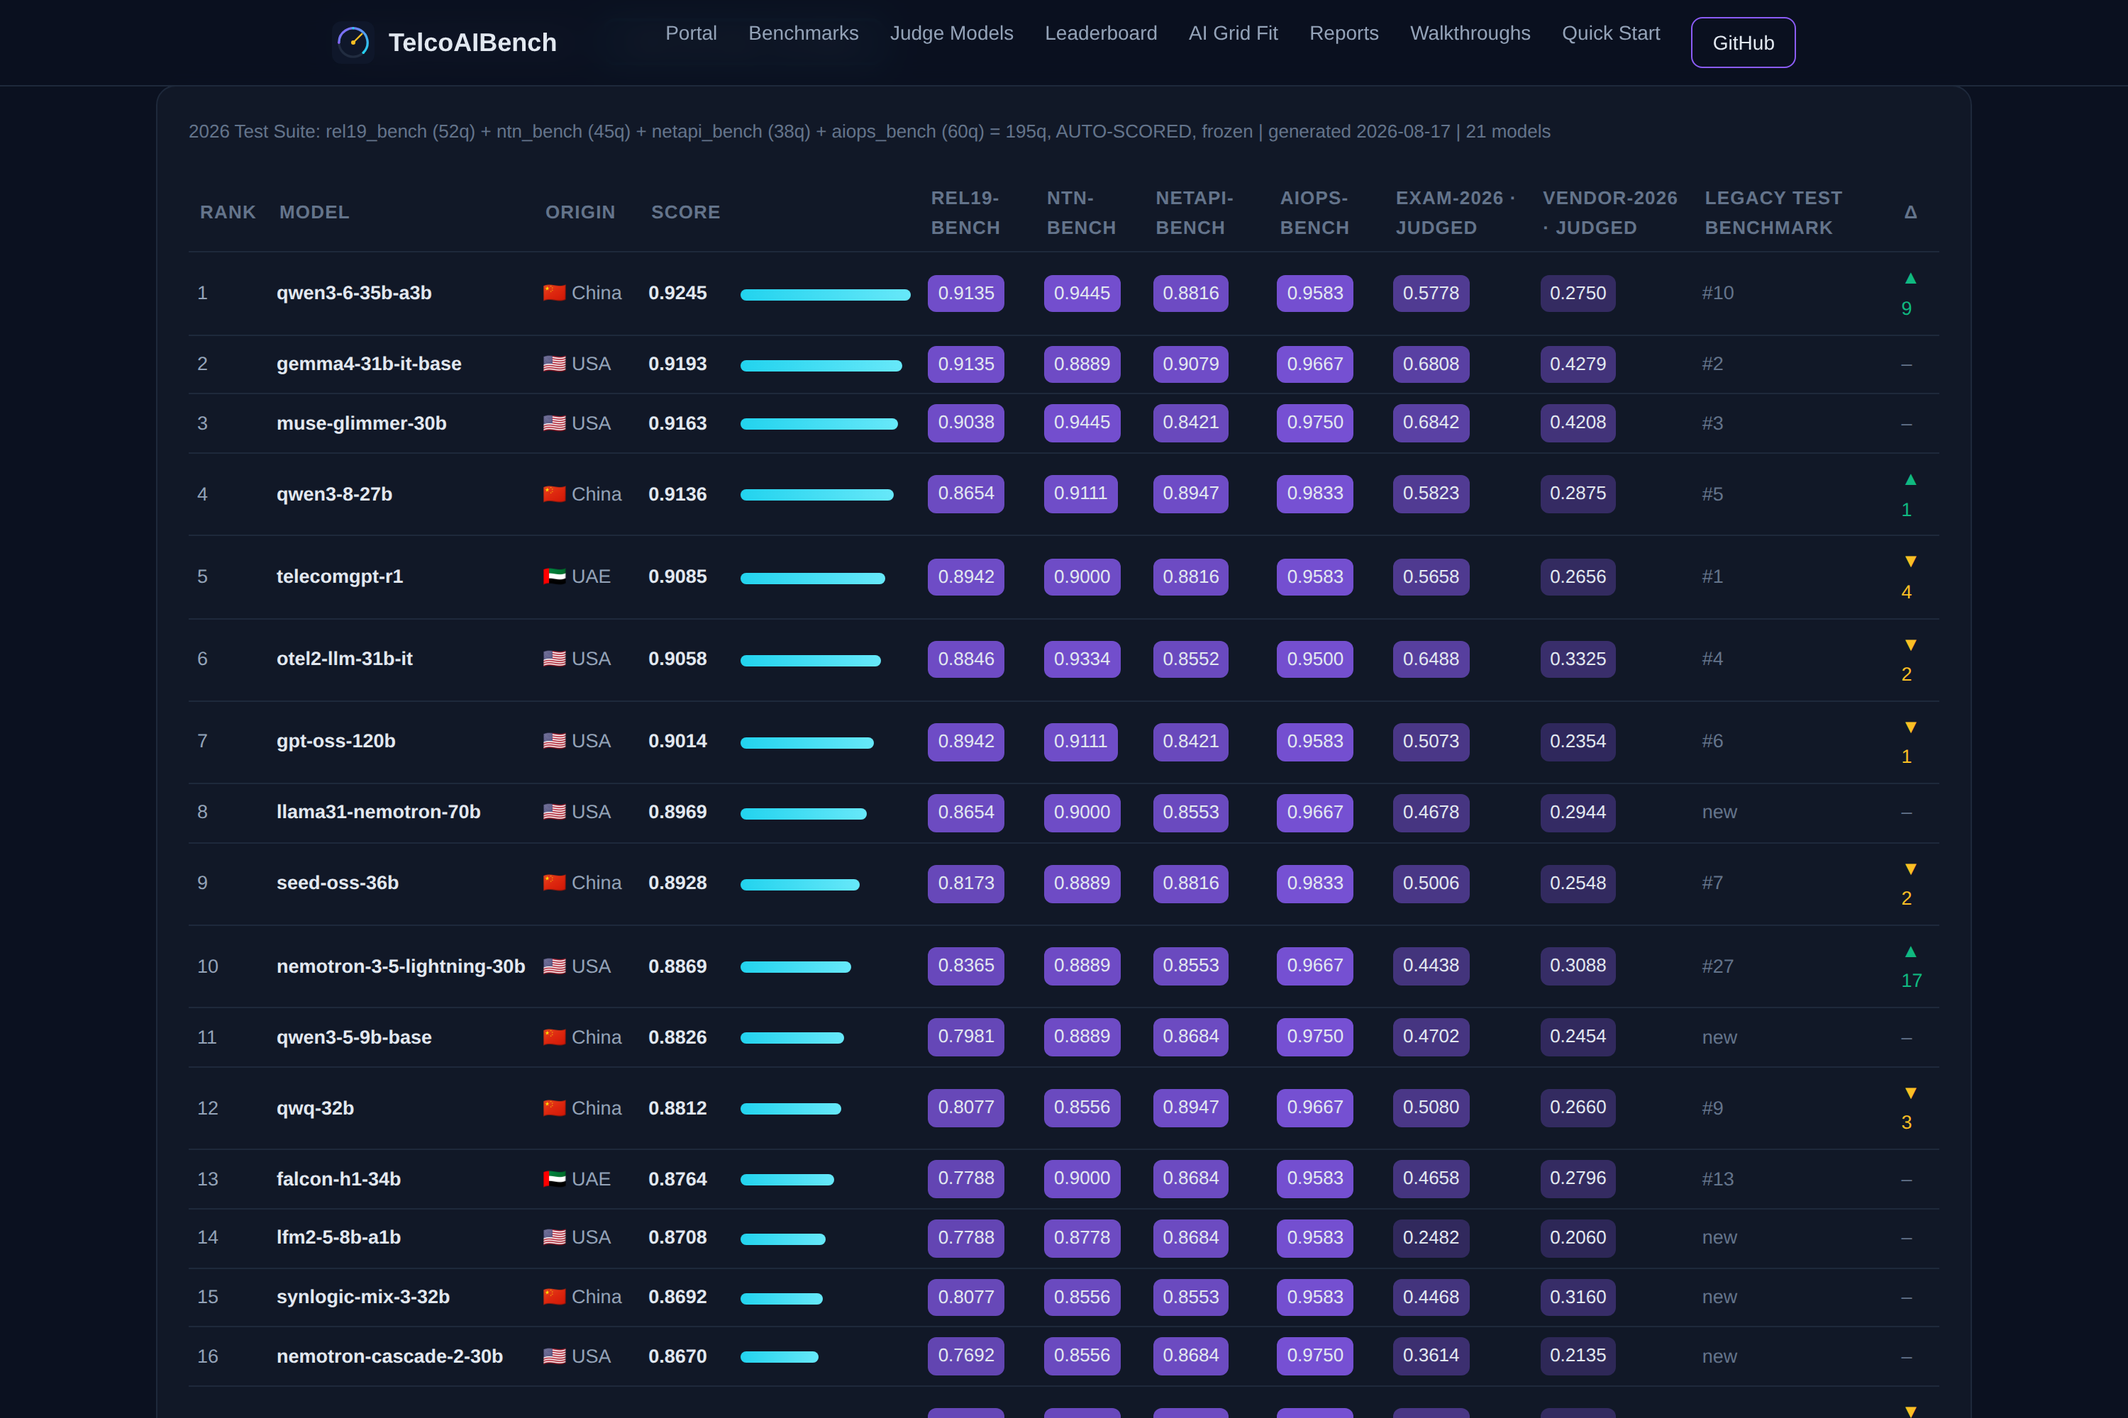
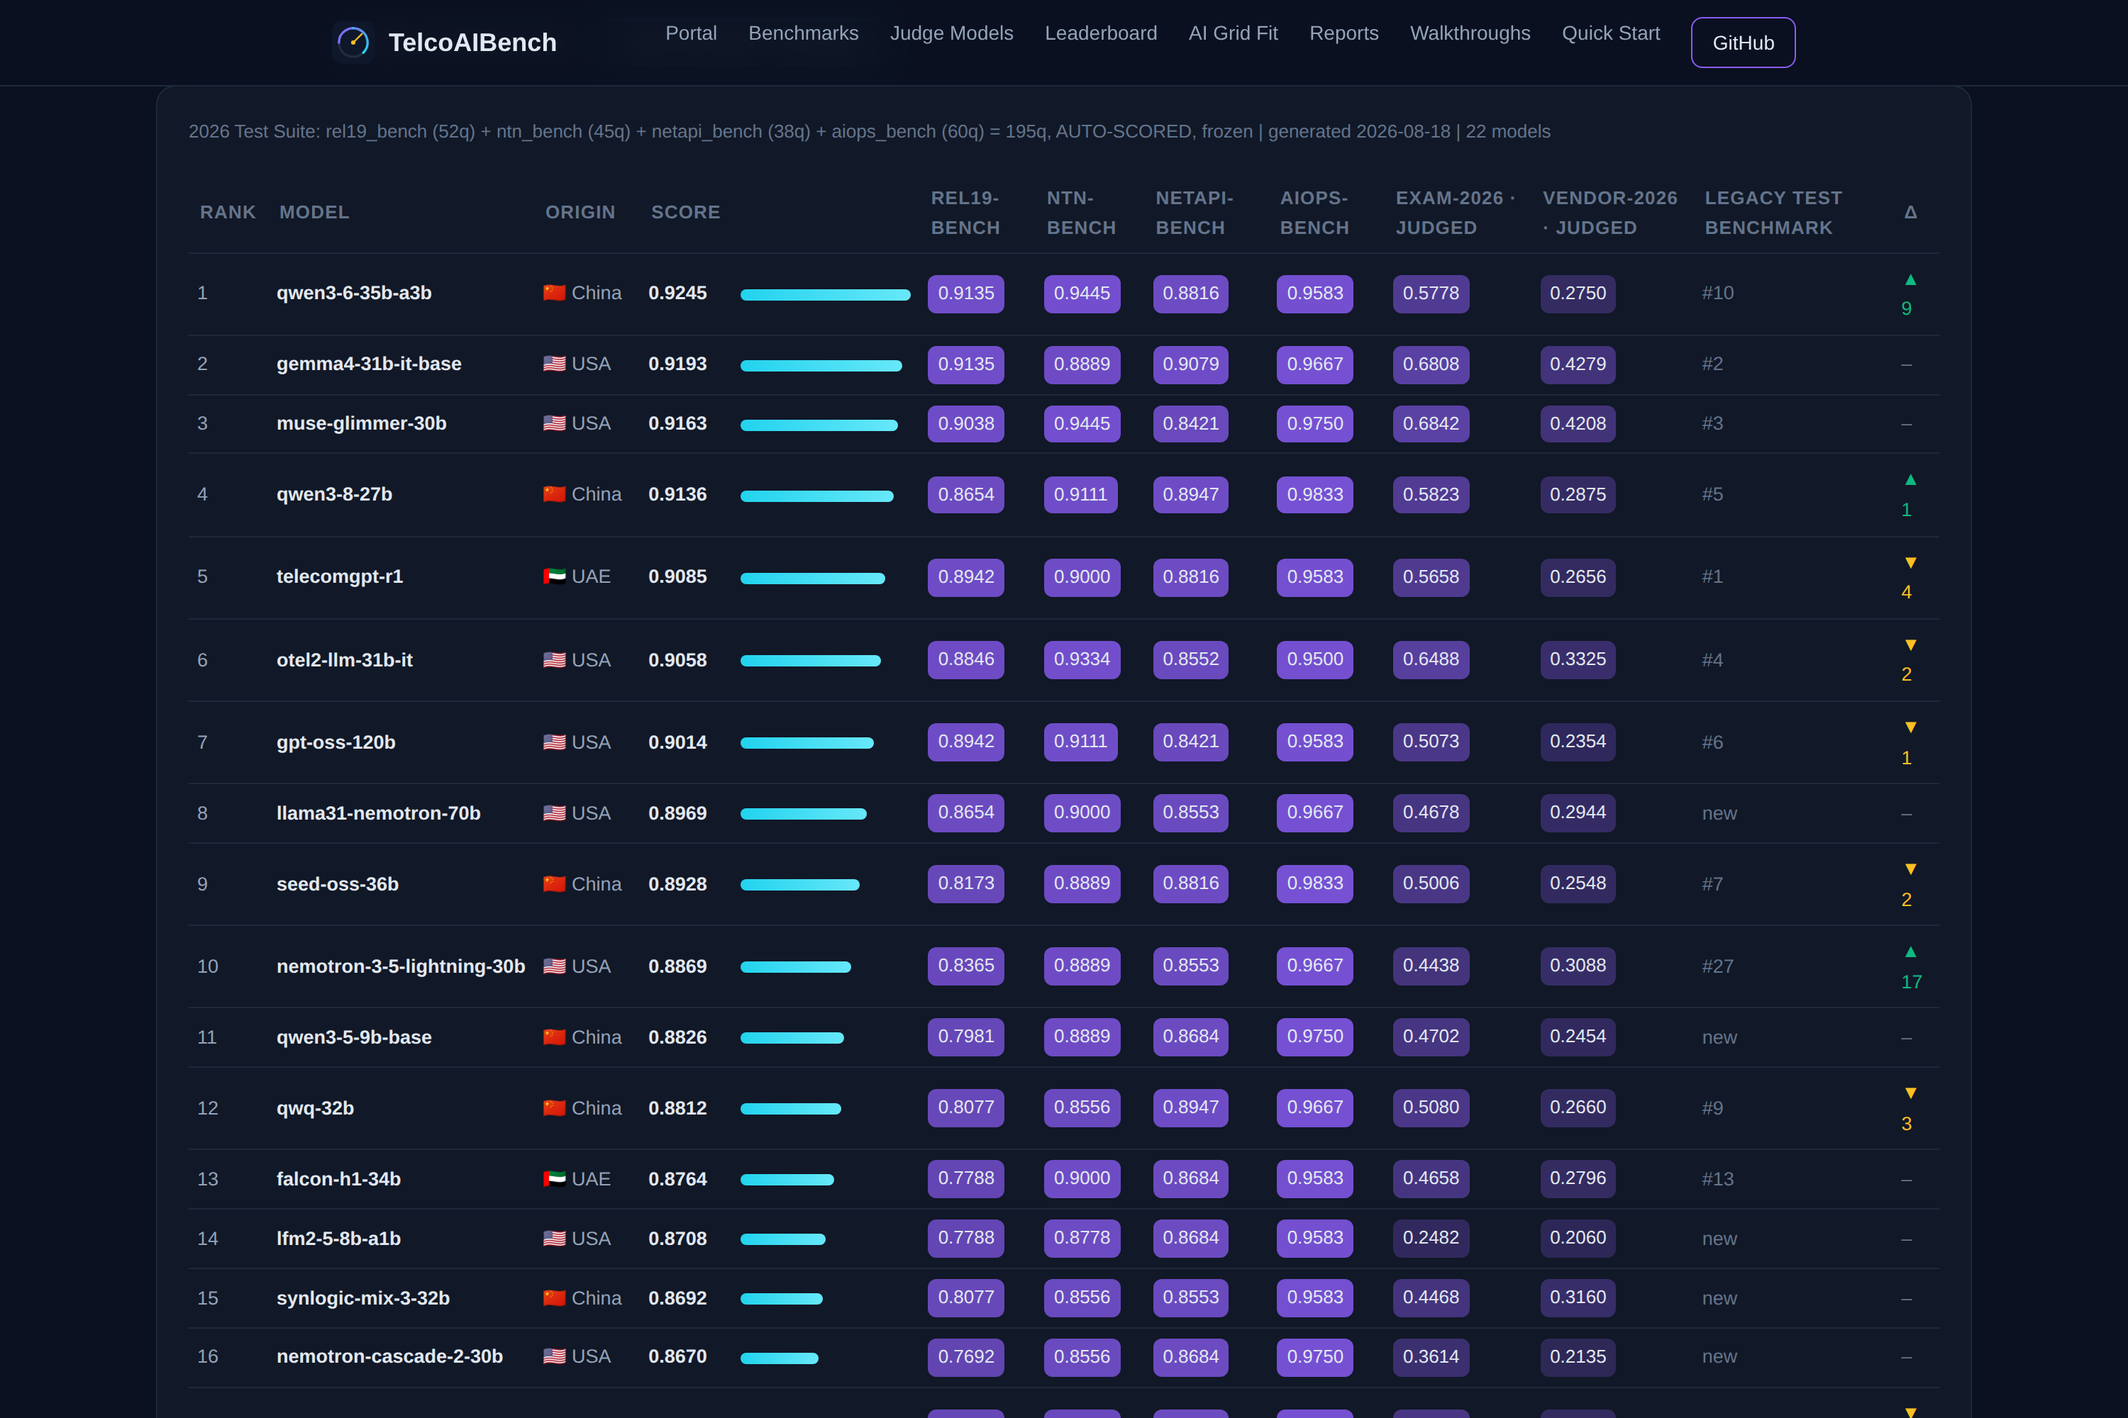
Moonlight-16B-A3B-Instruct: full 2026 track (#20/22); 2026 parse amendment v1.1 (leading-letter fallback, zero-drift audited)

diff --git a/docs/index.html b/docs/index.html
@@ -244,7 +244,10 @@
         RIC control loops, agentic operations, classification/prediction/scaling tasks) &mdash;
         authored from primary 3GPP/ETSI/CAMARA/TM Forum/NGMN sources and SME-reviewed. Each model
         runs each frozen suite twice (two fixed answer orderings); a suite score is the mean of both
-        runs, bounding choice-ordering variance. <b>Score</b> is the equal-weight mean across the four
+        runs, bounding choice-ordering variance. MCQ scoring expects the <code>ANSWER: X</code> protocol
+        line, with a leading-letter fallback (parse v1.1, adopted after a zero-drift audit of all prior
+        board models' transcripts) for models that answer in bare <code>B)</code> style &mdash; see the
+        track design doc. <b>Score</b> is the equal-weight mean across the four
         AUTO-SCORED suites. <b>Exam-2026 · judged</b> is the 2026 expansion of Telco's Last Exam
         (30 expert open-ended questions, 260 pts &mdash; IMS/voice, OSS/BSS, regulatory, AI-ops, NTN,
         energy + expert deepeners), graded 0-10 by the board judge (gpt-5.6-sol) against worked reference answers and reported points-weighted. <b>Vendor-2026 &middot; judged</b> completes the judged track: the 2026 expansion of the Vendor GenAI matrix (24 new cells &mdash; Huawei &times;6, ZTE &times;6, legacy vendors &times; Transport/IP + Security; five honesty traps), graded on the anchored 4-criteria rubric (technical accuracy / completeness / depth / honesty, weighted 0.40/0.20/0.15/0.25). Both judged columns are informational and do not enter Score, which stays the auto-scored 4-suite mean.

diff --git a/benchmarks/open-telco/otel_eval.py b/benchmarks/open-telco/otel_eval.py
@@ -196,6 +196,28 @@ def score_mcq(completion: str, record: dict):
     return parsed == target, parsed, target
 
 
+# 2026-track parse amendment v1.1 (2026 suites ONLY - the legacy GSMA-parity
+# suites above keep the verbatim-port scorer). Some instruct models answer
+# MCQs in the natural "B) <restated choice>" style and systematically ignore
+# the 'ANSWER: X' protocol line (first observed: Moonlight-16B-A3B-Instruct,
+# 15/15 correct letters, 0/15 protocol-compliant). When and only when no
+# 'ANSWER: X' line is present, fall back to a single leading choice letter at
+# the start of the reply. Adopted 2026-08-18 after a zero-drift audit
+# re-parsing all 21 board models' stored 2026 transcripts (see
+# benchmarks/2026-track-design.md).
+LEADING_LETTER = re.compile(r"^\s*[*_#]{0,3}\(?([A-Za-z])\)?\s*(?:[).:,-]|$)")
+
+
+def score_mcq_2026(completion: str, record: dict):
+    """score_mcq + leading-letter fallback (parse v1.1, 2026 suites only)."""
+    ok, parsed, target = score_mcq(completion, record)
+    if not parsed:
+        m = LEADING_LETTER.match(completion or "")
+        if m:
+            parsed = m.group(1).upper()
+    return parsed == target, parsed, target
+
+
 def score_telemath(completion: str, record: dict):
     """Boxed numeric answer, correct if within 1% rel or 0.01 abs."""
     target = str(record["answer"])
@@ -269,16 +291,16 @@ TASKS = {
     # --- 2026 Test Suite (AUTO-SCORED, frozen; see benchmarks/open-telco-2026/) ---
     # each task concatenates both frozen answer shuffles (_A + _B): one run
     # reproduces the board's two-shuffle-mean protocol exactly
-    "rel19_bench":  {"prompt": build_mcq_prompt, "score": score_mcq,
+    "rel19_bench":  {"prompt": build_mcq_prompt, "score": score_mcq_2026,
                      "paths": ["open-telco-2026/datasets/lite/rel19_bench_A.jsonl.gz",
                                "open-telco-2026/datasets/lite/rel19_bench_B.jsonl.gz"]},
     "ntn_bench":    {"prompt": build_mcq_prompt, "score": score_mcq,
                      "paths": ["open-telco-2026/datasets/lite/ntn_bench_A.jsonl.gz",
                                "open-telco-2026/datasets/lite/ntn_bench_B.jsonl.gz"]},
-    "netapi_bench": {"prompt": build_mcq_prompt, "score": score_mcq,
+    "netapi_bench": {"prompt": build_mcq_prompt, "score": score_mcq_2026,
                      "paths": ["open-telco-2026/datasets/lite/netapi_bench_A.jsonl.gz",
                                "open-telco-2026/datasets/lite/netapi_bench_B.jsonl.gz"]},
-    "aiops_bench":  {"prompt": build_mcq_prompt, "score": score_mcq,
+    "aiops_bench":  {"prompt": build_mcq_prompt, "score": score_mcq_2026,
                      "paths": ["open-telco-2026/datasets/lite/aiops_bench_A.jsonl.gz",
                                "open-telco-2026/datasets/lite/aiops_bench_B.jsonl.gz"]},
     # 2026 expansion batch 1 (30 expert q, 260 pts); full 2026 exam = this + legacy, points-weighted

diff --git a/benchmarks/model-reports/2026-reports/moonlight-16b-a3b-it.md b/benchmarks/model-reports/2026-reports/moonlight-16b-a3b-it.md
@@ -1,24 +1,24 @@
-# glm-4-7-flash — 2026 Test Suite Report Card
+# moonlight-16b-a3b-it — 2026 Test Suite Report Card
 
 **Track:** 2026 Test Suite · 6G Within (AUTO-SCORED) · **Origin:** China · **Legacy Test Benchmark rank:** new
 
-Composite (equal-weight mean of 4 AUTO-SCORED suites, 195 questions, each scored on two frozen answer shuffles): **0.8619** · Exam-2026 judged score (informational): **0.3846**
+Composite (equal-weight mean of 4 AUTO-SCORED suites, 195 questions, each scored on two frozen answer shuffles): **0.8438** · Exam-2026 judged score (informational): **0.2907**
 
 | Suite | Questions | Shuffle A | Shuffle B | Mean |
 |---|---|---|---|---|
-| Rel-19-Bench | 52 | 0.8269 | 0.8269 | **0.8269** |
-| NTN-Bench | 45 | 0.8000 | 0.8667 | **0.8333** |
-| NetAPI-Bench | 38 | 0.7895 | 0.8684 | **0.8289** |
-| AIOps-Bench | 60 | 0.9667 | 0.9500 | **0.9583** |
-| **Composite (AUTO-SCORED)** | **195** | | | **0.8619** |
-| Exam-2026 (judged, 30q/260pts) | 30 | | | 0.3846 |
-| Vendor-2026 (judged, 24 cells) | 24 | | | 0.2194 |
+| Rel-19-Bench | 52 | 0.7885 | 0.7115 | **0.7500** |
+| NTN-Bench | 45 | 0.8222 | 0.7778 | **0.8000** |
+| NetAPI-Bench | 38 | 0.8158 | 0.8684 | **0.8421** |
+| AIOps-Bench | 60 | 1.0000 | 0.9667 | **0.9833** |
+| **Composite (AUTO-SCORED)** | **195** | | | **0.8438** |
+| Exam-2026 (judged, 30q/260pts) | 30 | | | 0.2907 |
+| Vendor-2026 (judged, 24 cells) | 24 | | | 0.2288 |
 
 ## Methodology
 
 Each suite is frozen as two fixed answer-order shuffles (seeds and SHA-256 in the suite [MANIFEST](../../open-telco-2026/datasets/lite/MANIFEST.json)); every model sees identical orderings and the reported score is the mean of the two runs, neutralizing answer-position sensitivity (measured up to ~7 points on a single ordering). Scoring: exact-match `ANSWER: X` extraction, temperature 0.0, max 8192 output tokens, streaming, 6 concurrent connections. Serving: KServe RawDeployment on OpenShift (cluster `venice`, 2× RTX PRO 6000 96GB), the pinned vLLM v0.26.0 CUDA 12.9 image, weights from cluster PVCs.
 
-**Serving note:** Run with `chat_template_kwargs.enable_thinking=false` (golden config: default thinking overruns the 8192-token cap on ~1/3 of items). Loads on the pinned vLLM v0.26.0 despite the model card recommending nightly builds.
+**Serving note:** 16B-total / 3B-active MoE (DeepSeek-V3 architecture, Muon-trained) served with `--trust-remote-code` and `--max-model-len=8192` (the model's context limit); golden config `max_tokens=4096` so generation fits the 8K context. Scored under 2026 parse amendment v1.1 (leading-letter fallback): the model consistently answers with the correct choice letter in `B) ...` style but omits the `ANSWER: X` protocol line on 390/390 items - the fallback (adopted after a zero-drift audit of all prior board models) recovers every answer.
 
 ## Suite provenance
 

diff --git a/benchmarks/model-reports/2026-reports/README.md b/benchmarks/model-reports/2026-reports/README.md
@@ -11,19 +11,20 @@ One report card per model benchmarked on the **2026 Test Suite · 6G Within** tr
 | 5 | telecomgpt-r1 | **0.9085** | UAE | #1 | [report](telecomgpt-r1.md) |
 | 6 | otel2-llm-31b-it | **0.9058** | USA | #4 | [report](otel2-llm-31b-it.md) |
 | 7 | gpt-oss-120b | **0.9014** | USA | #6 | [report](gpt-oss-120b.md) |
-| 8 | llama31-nemotron-70b | **0.8969** | USA | #None | [report](llama31-nemotron-70b.md) |
+| 8 | llama31-nemotron-70b | **0.8969** | USA | new | [report](llama31-nemotron-70b.md) |
 | 9 | seed-oss-36b | **0.8928** | China | #7 | [report](seed-oss-36b.md) |
 | 10 | nemotron-3-5-lightning-30b | **0.8869** | USA | #27 | [report](nemotron-3-5-lightning-30b.md) |
-| 11 | qwen3-5-9b-base | **0.8826** | China | #None | [report](qwen3-5-9b-base.md) |
+| 11 | qwen3-5-9b-base | **0.8826** | China | new | [report](qwen3-5-9b-base.md) |
 | 12 | qwq-32b | **0.8812** | China | #9 | [report](qwq-32b.md) |
 | 13 | falcon-h1-34b | **0.8764** | UAE | #13 | [report](falcon-h1-34b.md) |
-| 14 | lfm2-5-8b-a1b | **0.8708** | USA | #None | [report](lfm2-5-8b-a1b.md) |
-| 15 | synlogic-mix-3-32b | **0.8692** | China | #None | [report](synlogic-mix-3-32b.md) |
-| 16 | nemotron-cascade-2-30b | **0.8670** | USA | #None | [report](nemotron-cascade-2-30b.md) |
+| 14 | lfm2-5-8b-a1b | **0.8708** | USA | new | [report](lfm2-5-8b-a1b.md) |
+| 15 | synlogic-mix-3-32b | **0.8692** | China | new | [report](synlogic-mix-3-32b.md) |
+| 16 | nemotron-cascade-2-30b | **0.8670** | USA | new | [report](nemotron-cascade-2-30b.md) |
 | 17 | mistral-small-3-2-24b | **0.8666** | France | #11 | [report](mistral-small-3-2-24b.md) |
 | 18 | nemotron-3-super-120b | **0.8643** | USA | #8 | [report](nemotron-3-super-120b.md) |
-| 19 | glm-4-7-flash | **0.8619** | China | #None | [report](glm-4-7-flash.md) |
-| 20 | lfm2-5-vl-3b | **0.8407** | USA | #None | [report](lfm2-5-vl-3b.md) |
-| 21 | lfm2-5-2-6b-base | **0.8336** | USA | #None | [report](lfm2-5-2-6b-base.md) |
+| 19 | glm-4-7-flash | **0.8619** | China | new | [report](glm-4-7-flash.md) |
+| 20 | moonlight-16b-a3b-it | **0.8438** | China | new | [report](moonlight-16b-a3b-it.md) |
+| 21 | lfm2-5-vl-3b | **0.8407** | USA | new | [report](lfm2-5-vl-3b.md) |
+| 22 | lfm2-5-2-6b-base | **0.8336** | USA | new | [report](lfm2-5-2-6b-base.md) |
 
 Legacy-board proof points live under [`../legacy-reports/`](../legacy-reports/).

diff --git a/benchmarks/2026-track-design.md b/benchmarks/2026-track-design.md
@@ -1,7 +1,7 @@
 # TelcoAIBench 2026 Track — Design
 
 **Status:** approved 2026-08-16 · auto-scored track delivered (195q frozen, Marathon #02
-complete) · exam-2026 delivered (21-model judged marathon) · vendor-genai-2026 frozen, marathon in progress.
+complete) · exam-2026 + vendor-genai-2026 delivered (full judged marathons) · 22 models on the 2026 board.
 
 ## Why
 
@@ -61,6 +61,22 @@ official reports.
    a time (one per GPU), JSON-verified serving swaps.
 6. **Publish** — board column + per-model [report cards](model-reports/2026-reports/),
    frozen datasets + provenance in the suite folder, one git patch per delivery.
+
+## Parse amendment v1.1 (2026 suites only, 2026-08-18)
+
+Some instruct models answer MCQs in the natural `B) <restated choice>` style and
+systematically ignore the `ANSWER: X` protocol line even when instructed verbatim
+(first observed: Moonlight-16B-A3B-Instruct — 15/15 correct letters on the rel19
+pilot, 0/15 protocol-compliant). The 2026 AUTO-SCORED suites therefore use
+`score_mcq_2026`: identical to the verbatim-port scorer, plus a fallback that
+accepts a single leading choice letter at the start of the reply **only when no
+`ANSWER: X` line is present anywhere**. The legacy GSMA-parity suites keep the
+verbatim-port scorer untouched.
+
+Adoption gate: a re-parse audit of all 21 board models' stored 2026 transcripts
+(8,190 rows = 195 questions x 2 shuffles x 21 models) confirmed the fallback
+fires 0 times on existing runs — published scores are byte-identical under v1.0
+and v1.1.
 
 ## Board
 

diff --git a/benchmarks/model-reports/2026-reports/nemotron-cascade-2-30b.md b/benchmarks/model-reports/2026-reports/nemotron-cascade-2-30b.md
@@ -1,6 +1,6 @@
 # nemotron-cascade-2-30b — 2026 Test Suite Report Card
 
-**Track:** 2026 Test Suite · 6G Within (AUTO-SCORED) · **Origin:** USA · **Legacy Test Benchmark rank:** #None
+**Track:** 2026 Test Suite · 6G Within (AUTO-SCORED) · **Origin:** USA · **Legacy Test Benchmark rank:** new
 
 Composite (equal-weight mean of 4 AUTO-SCORED suites, 195 questions, each scored on two frozen answer shuffles): **0.8670** · Exam-2026 judged score (informational): **0.3614**
 

diff --git a/benchmarks/model-reports/2026-reports/synlogic-mix-3-32b.md b/benchmarks/model-reports/2026-reports/synlogic-mix-3-32b.md
@@ -1,6 +1,6 @@
 # synlogic-mix-3-32b — 2026 Test Suite Report Card
 
-**Track:** 2026 Test Suite · 6G Within (AUTO-SCORED) · **Origin:** China · **Legacy Test Benchmark rank:** #None
+**Track:** 2026 Test Suite · 6G Within (AUTO-SCORED) · **Origin:** China · **Legacy Test Benchmark rank:** new
 
 Composite (equal-weight mean of 4 AUTO-SCORED suites, 195 questions, each scored on two frozen answer shuffles): **0.8692** · Exam-2026 judged score (informational): **0.4468**
 

diff --git a/benchmarks/model-reports/2026-reports/llama31-nemotron-70b.md b/benchmarks/model-reports/2026-reports/llama31-nemotron-70b.md
@@ -1,6 +1,6 @@
 # llama31-nemotron-70b — 2026 Test Suite Report Card
 
-**Track:** 2026 Test Suite · 6G Within (AUTO-SCORED) · **Origin:** USA · **Legacy Test Benchmark rank:** #None
+**Track:** 2026 Test Suite · 6G Within (AUTO-SCORED) · **Origin:** USA · **Legacy Test Benchmark rank:** new
 
 Composite (equal-weight mean of 4 AUTO-SCORED suites, 195 questions, each scored on two frozen answer shuffles): **0.8969** · Exam-2026 judged score (informational): **0.4678**
 

diff --git a/benchmarks/model-reports/2026-reports/qwen3-5-9b-base.md b/benchmarks/model-reports/2026-reports/qwen3-5-9b-base.md
@@ -1,6 +1,6 @@
 # qwen3-5-9b-base — 2026 Test Suite Report Card
 
-**Track:** 2026 Test Suite · 6G Within (AUTO-SCORED) · **Origin:** China · **Legacy Test Benchmark rank:** #None
+**Track:** 2026 Test Suite · 6G Within (AUTO-SCORED) · **Origin:** China · **Legacy Test Benchmark rank:** new
 
 Composite (equal-weight mean of 4 AUTO-SCORED suites, 195 questions, each scored on two frozen answer shuffles): **0.8826** · Exam-2026 judged score (informational): **0.4702**
 

diff --git a/benchmarks/model-reports/2026-reports/lfm2-5-2-6b-base.md b/benchmarks/model-reports/2026-reports/lfm2-5-2-6b-base.md
@@ -1,6 +1,6 @@
 # lfm2-5-2-6b-base — 2026 Test Suite Report Card
 
-**Track:** 2026 Test Suite · 6G Within (AUTO-SCORED) · **Origin:** USA · **Legacy Test Benchmark rank:** #None
+**Track:** 2026 Test Suite · 6G Within (AUTO-SCORED) · **Origin:** USA · **Legacy Test Benchmark rank:** new
 
 Composite (equal-weight mean of 4 AUTO-SCORED suites, 195 questions, each scored on two frozen answer shuffles): **0.8336** · Exam-2026 judged score (informational): **0.2096**
 

diff --git a/benchmarks/model-reports/2026-reports/lfm2-5-8b-a1b.md b/benchmarks/model-reports/2026-reports/lfm2-5-8b-a1b.md
@@ -1,6 +1,6 @@
 # lfm2-5-8b-a1b — 2026 Test Suite Report Card
 
-**Track:** 2026 Test Suite · 6G Within (AUTO-SCORED) · **Origin:** USA · **Legacy Test Benchmark rank:** #None
+**Track:** 2026 Test Suite · 6G Within (AUTO-SCORED) · **Origin:** USA · **Legacy Test Benchmark rank:** new
 
 Composite (equal-weight mean of 4 AUTO-SCORED suites, 195 questions, each scored on two frozen answer shuffles): **0.8708** · Exam-2026 judged score (informational): **0.2482**
 

diff --git a/benchmarks/model-reports/2026-reports/lfm2-5-vl-3b.md b/benchmarks/model-reports/2026-reports/lfm2-5-vl-3b.md
@@ -1,6 +1,6 @@
 # lfm2-5-vl-3b — 2026 Test Suite Report Card
 
-**Track:** 2026 Test Suite · 6G Within (AUTO-SCORED) · **Origin:** USA · **Legacy Test Benchmark rank:** #None
+**Track:** 2026 Test Suite · 6G Within (AUTO-SCORED) · **Origin:** USA · **Legacy Test Benchmark rank:** new
 
 Composite (equal-weight mean of 4 AUTO-SCORED suites, 195 questions, each scored on two frozen answer shuffles): **0.8407** · Exam-2026 judged score (informational): **0.1718**
 
